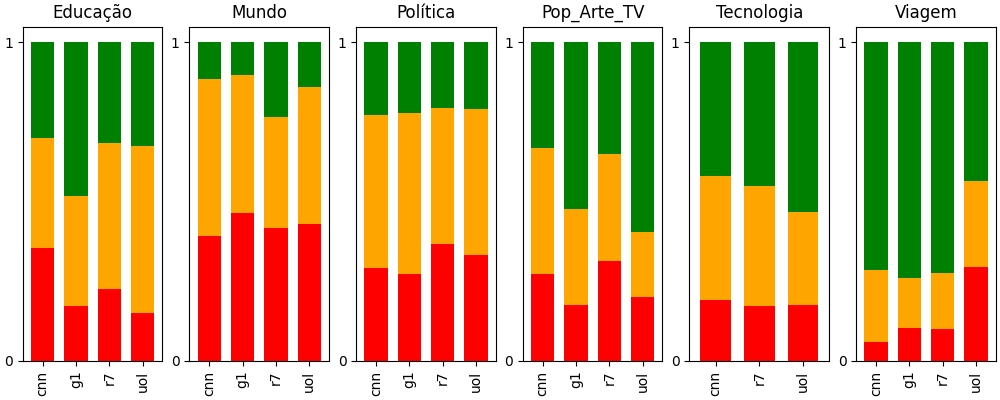
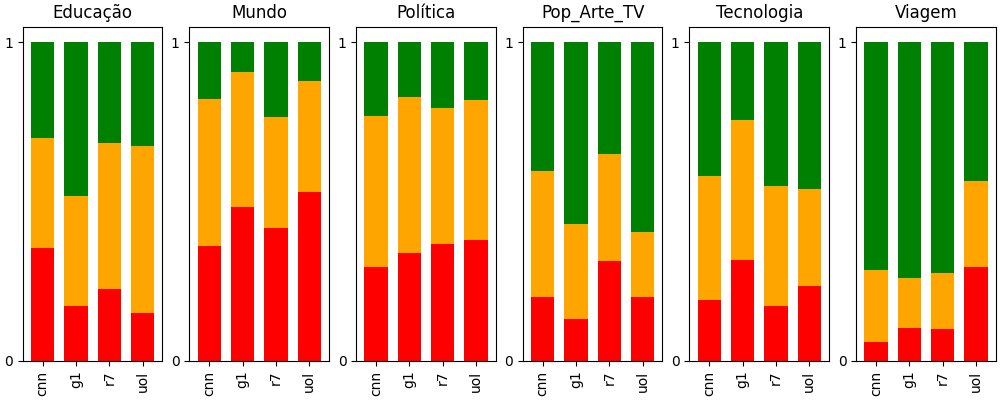
first commit

diff --git a/noticias.py b/noticias.py
@@ -23,7 +23,7 @@ sources = {
         'Política':     'https://g1.globo.com/rss/g1/politica/',
         'Pop_Arte_TV':  'https://g1.globo.com/rss/g1/pop-arte/',
         'Viagem':       'https://g1.globo.com/rss/g1/turismo-e-viagem/',
-        'Tecnologia':   'https://www.cnnbrasil.com.br/tecnologia/'
+        'Tecnologia':   'https://g1.globo.com/rss/g1/tecnologia/'
     },
     'r7': {
         'Mundo':        'https://noticias.r7.com/internacional/feed.xml',
@@ -150,4 +150,4 @@ def graph(csv_file):
 #init()
 
 # Gerar o gráfico (noticas_analise.png)
-graph('noticias_2023-10-19_14_01_34.csv')
+graph('noticias_2023-10-19_14_53_29.csv')
